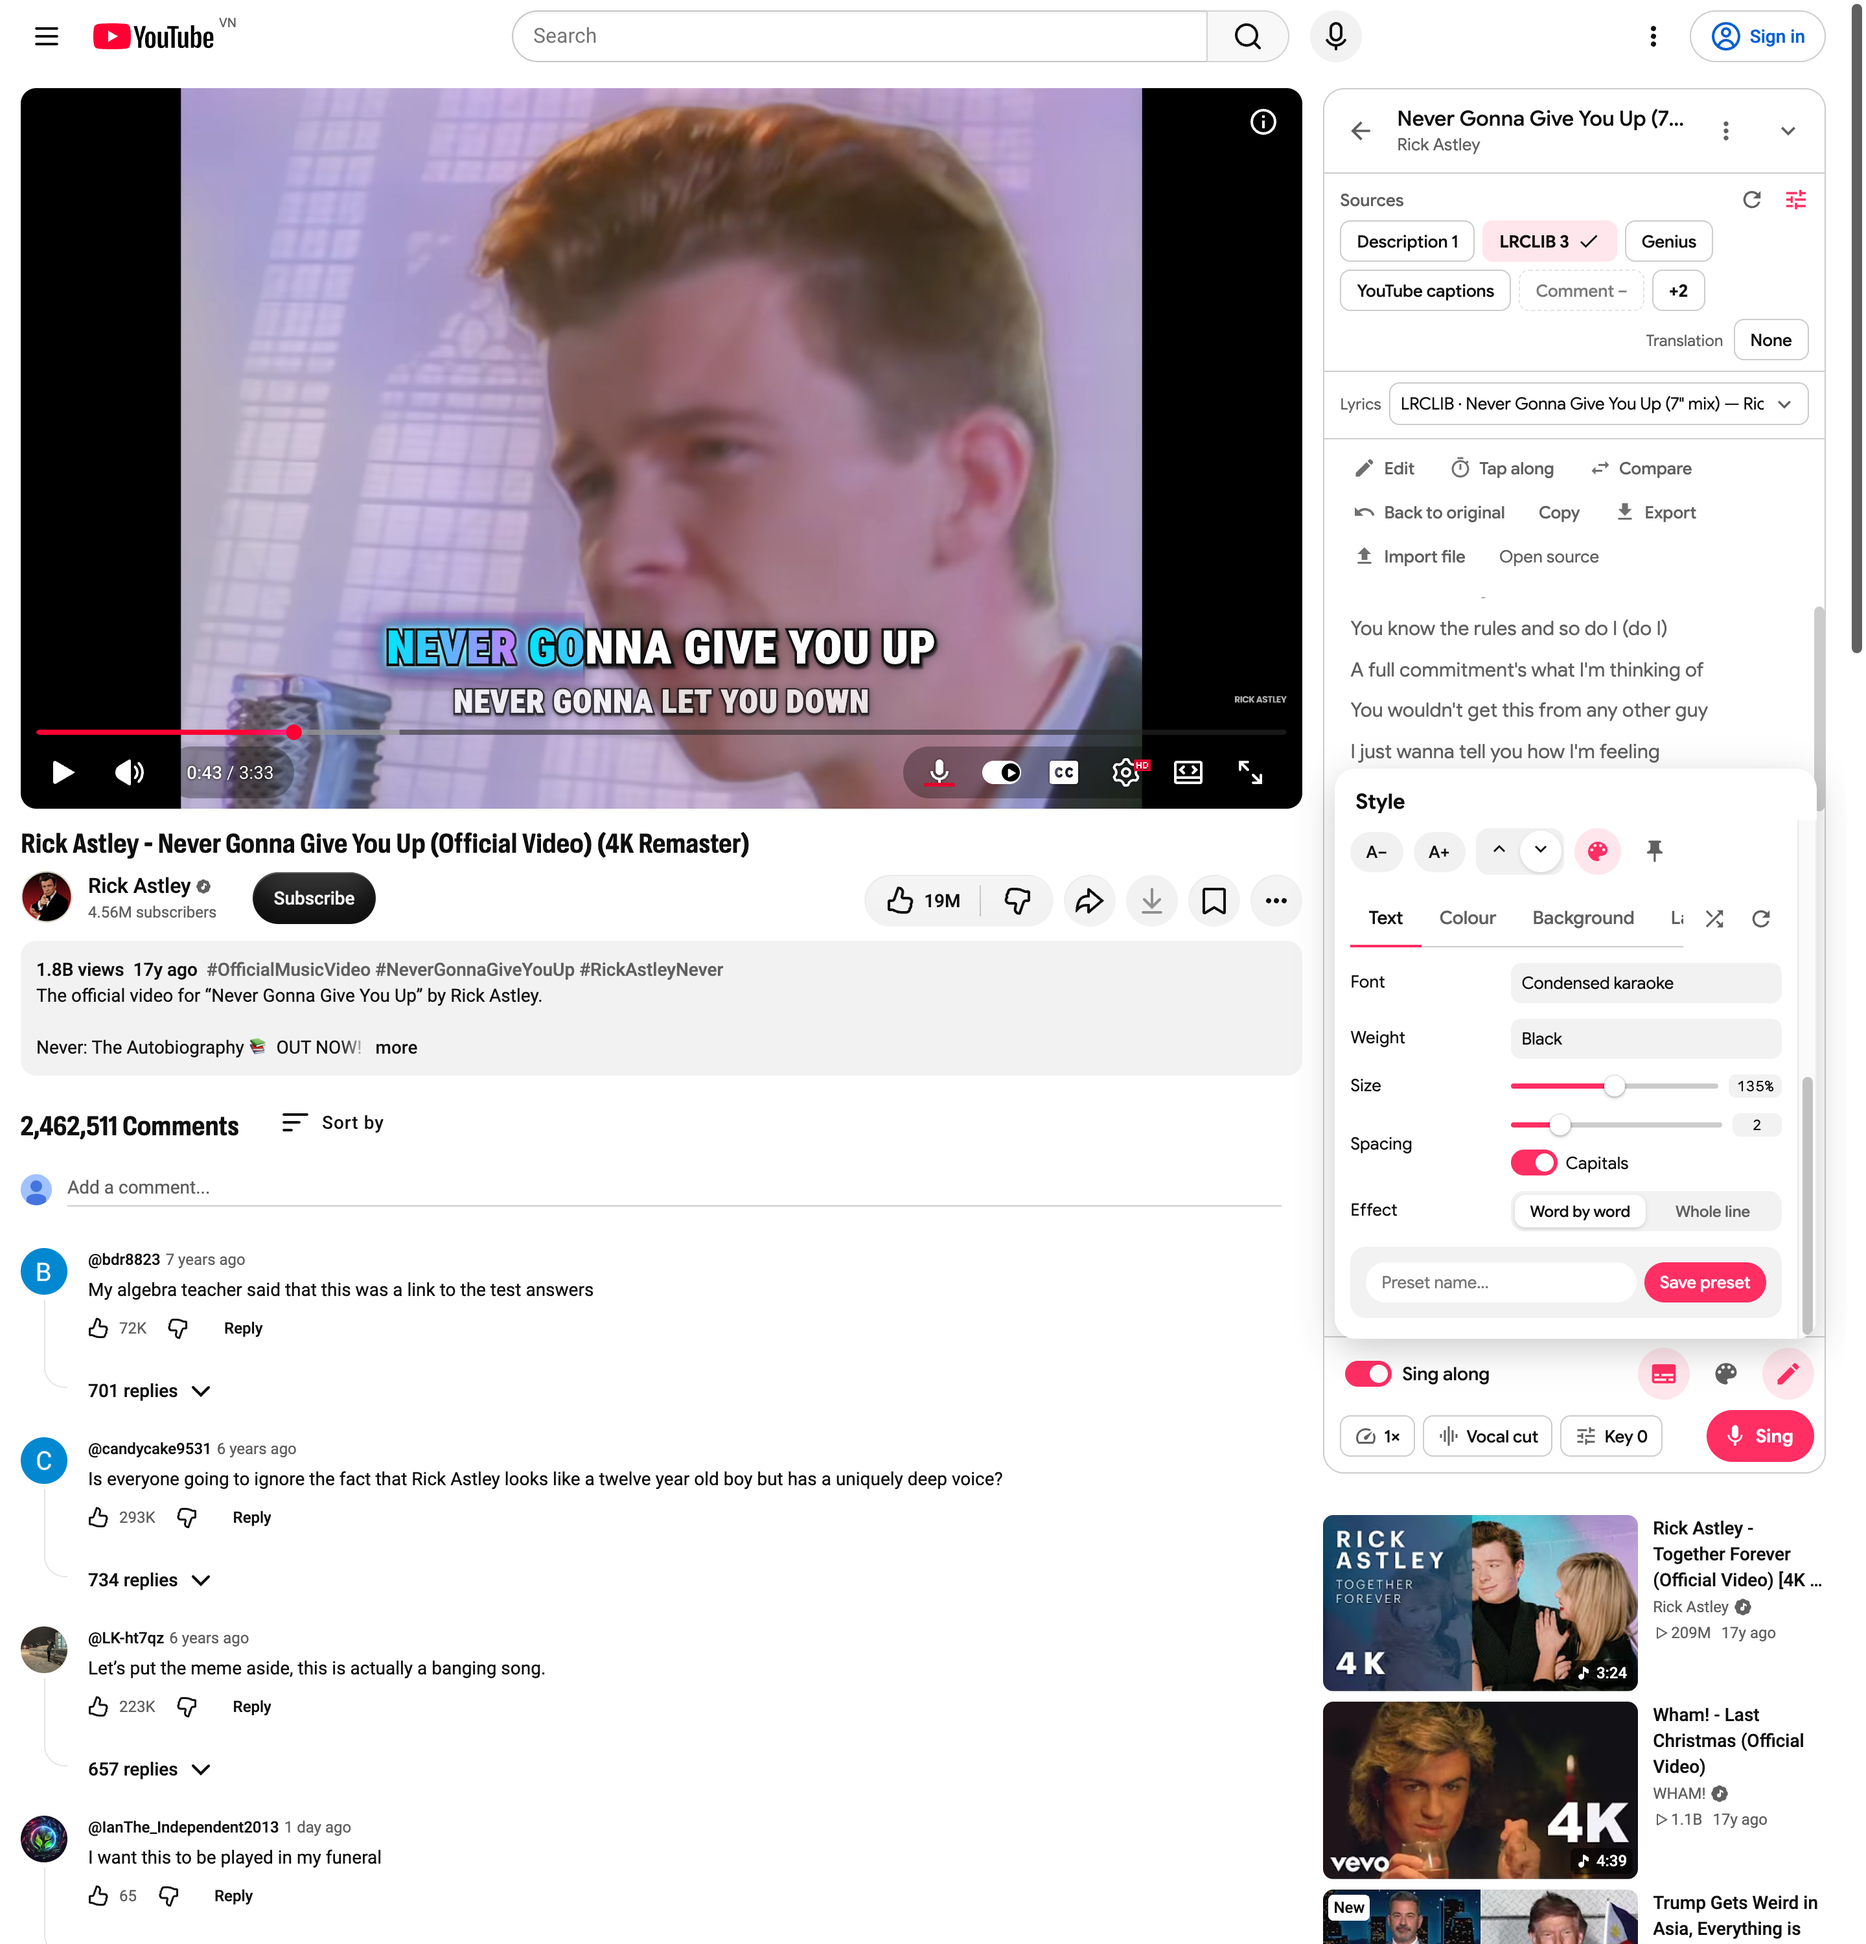
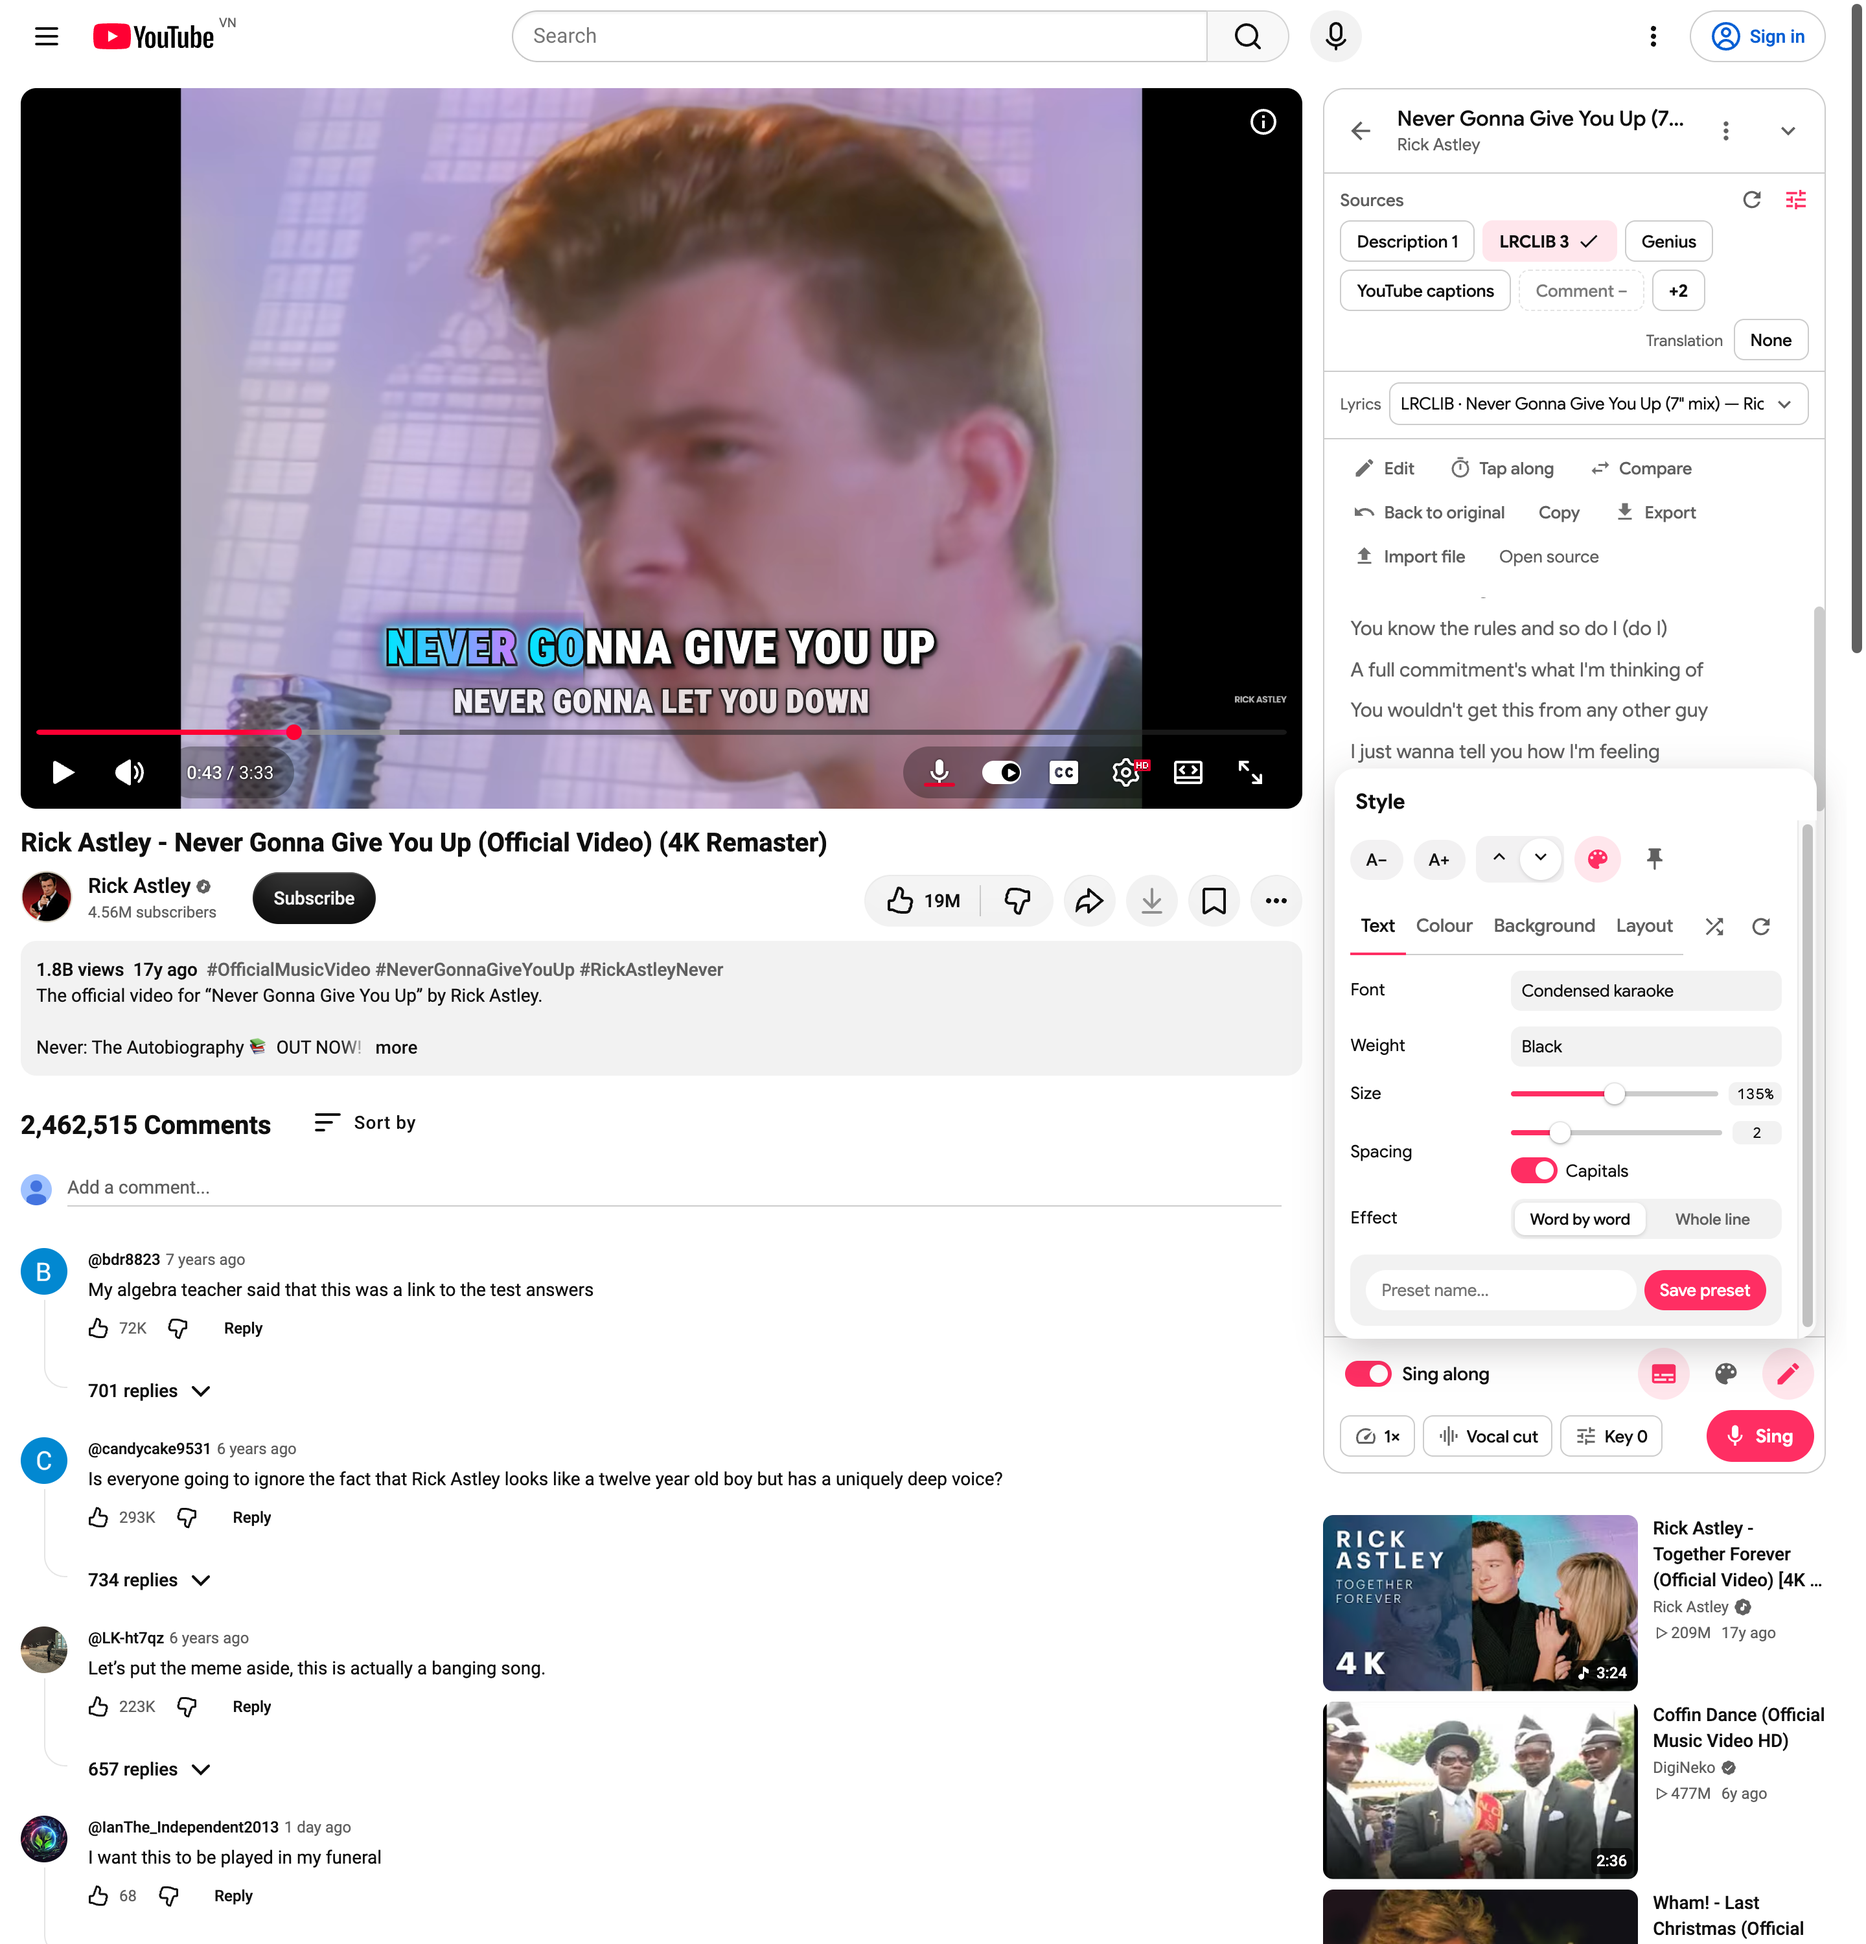
Store 0.29.0 images rechecked: the marquee's panel redrawn in the 0.29 look (Karaoke button, 文A line, Hát cùng bar), the studio shot without the preset gallery; the 🎨 studio tabs share their row so English "Layout" isn't hidden under 🎲 ↺

diff --git a/store/design-kit.html b/store/design-kit.html
@@ -110,10 +110,10 @@
   };
   const ART = {
     en: { sing: ['Sing along', ' on YouTube'], pills: ['Karaoke on video', '9 subtitle styles', 'Key & vocal cut', 'Translate lyrics'],
-      l1: 'Sing your heart out', l2: 'Lyrics light up as you sing', tabs: ['Sing', 'Edit', 'Karaoke'],
+      l1: 'Sing your heart out', l2: 'Lyrics light up as you sing', tr: 'Hát hết mình nào', dock: ['Sing along', '1×', 'Vocal cut', 'Key +2', 'Sing'],
       lines: ['Turn the lights down low', 'Sing your heart out', 'Lyrics light up as you sing', 'Every word right on time'] },
     vi: { sing: ['Hát karaoke', ' trên YouTube'], pills: ['Karaoke trên video', '9 kiểu chữ', 'Tông & lọc giọng', 'Dịch lời'],
-      l1: 'Hát hết mình nào', l2: 'Lời sáng lên theo nhịp hát', tabs: ['Hát', 'Chỉnh lời', 'Karaoke'],
+      l1: 'Hát hết mình nào', l2: 'Lời sáng lên theo nhịp hát', tr: 'Sing your heart out', dock: ['Hát cùng', '1×', 'Lọc giọng', 'Tông +2', 'Hát'],
       lines: ['Đèn sân khấu đã lên', 'Hát hết mình nào', 'Lời sáng lên theo nhịp hát', 'Từng chữ đúng nhịp'] },
   };
   const fill = (s, ...a) => s.replace(/\{(\d)\}/g, (_, i) => a[i]);
@@ -247,7 +247,7 @@
       const cx = 20 + i * 48 + (i % 2) * 10, cy = 392 - (i % 3) * 8;
       return `<circle cx="${cx}" cy="${cy}" r="${17 + (i % 3) * 2}"/><rect x="${cx - 26}" y="${cy + 12}" width="52" height="80" rx="24"/>`;
     }).join('');
-    const line = (fillc, extra = '') => `<text x="${x1}" y="196" font-family="${FONT}" font-size="${s1}" font-weight="900" fill="${fillc}" stroke="#000" stroke-width="${s1 * 0.14}" stroke-linejoin="round" paint-order="stroke" ${extra}>${esc(l1)}</text>`;
+    const line = (fillc, extra = '') => `<text x="${x1}" y="178" font-family="${FONT}" font-size="${s1}" font-weight="900" fill="${fillc}" stroke="#000" stroke-width="${s1 * 0.14}" stroke-linejoin="round" paint-order="stroke" ${extra}>${esc(l1)}</text>`;
     return `<g transform="translate(740 58) rotate(3 300 225)">
       <rect x="-6" y="-6" width="612" height="462" rx="14" fill="#fff" filter="url(#${p}drop)"/>
       <g clip-path="url(#${p}screen)">
@@ -256,37 +256,54 @@
         <ellipse cx="300" cy="250" rx="260" ry="100" fill="url(#${p}spot)"/>
         <g fill="#0b0712">${crowd}</g>
         ${line('#fff')}
-        <clipPath id="${p}sung"><rect x="${x1 - 10}" y="136" width="${w1 * 0.55 + 10}" height="80"/></clipPath>
+        <clipPath id="${p}sung"><rect x="${x1 - 10}" y="118" width="${w1 * 0.55 + 10}" height="80"/></clipPath>
         <g clip-path="url(#${p}sung)">${line('#ffe600')}</g>
-        <text x="${x2}" y="236" font-family="${FONT}" font-size="${s2}" font-weight="700" fill="#fff" stroke="#000" stroke-width="${s2 * 0.12}" paint-order="stroke">${esc(A.l2)}</text>
+        <text x="${x2}" y="216" font-family="${FONT}" font-size="${s2}" font-weight="700" fill="#fff" stroke="#000" stroke-width="${s2 * 0.12}" paint-order="stroke">${esc(A.l2)}</text>
         <rect x="22" y="420" width="556" height="4" rx="2" fill="#fff" fill-opacity=".35"/><rect x="22" y="420" width="250" height="4" rx="2" fill="#ff1f4b"/><circle cx="272" cy="422" r="7" fill="#ff1f4b"/>
       </g></g>`;
   }
-  // The lyrics panel, small, over the corner of the video.
+  // The lyrics panel, small, over the corner of the video: drawn like the
+  // panel since 0.29 (header with the Karaoke button, the line being sung with
+  // its 文A translation, the Hát cùng bar with speed, vocal cut, key and 🎙 Hát).
   function panel(p, A) {
-    const W = 270;
-    let tabs = '', tx = 14;
-    const tw = (W - 28 - 6) / A.tabs.length;
-    A.tabs.forEach((t, i) => {
-      if (i === 0) tabs += `<rect x="${tx + 3}" y="61" width="${tw - 2}" height="22" rx="6" fill="#fff"/>`;
-      tabs += `<text x="${tx + 3 + (tw - 2) / 2}" y="76.5" text-anchor="middle" font-family="${FONT}" font-size="11.5" font-weight="${i === 0 ? 800 : 600}" fill="${i === 0 ? '#1d1216' : '#7a6870'}">${esc(t)}</text>`;
-      tx += tw;
-    });
-    const lines = A.lines.map((l, i) => {
-      const y = 112 + i * 26;
-      return (i === 1 ? `<rect x="10" y="${y - 17}" width="${W - 20}" height="24" rx="6" fill="#ffe3ea"/>` : '') +
-        `<text x="18" y="${y}" font-family="${FONT}" font-size="13" font-weight="${i === 1 ? 800 : 500}" fill="${i === 1 ? '#1d1216' : '#6d5a62'}">${esc(l)}</text>`;
-    }).join('');
-    return `<g transform="translate(1100 322) rotate(4 ${W / 2} 105)">
-      <rect x="-5" y="-5" width="${W + 10}" height="220" rx="16" fill="#fff" filter="url(#${p}drop)"/>
-      <svg x="12" y="12" width="32" height="32" viewBox="0 0 1000 1000">${icon(p + 'pi', 220)}</svg>
-      <text x="52" y="27" font-family="${FONT}" font-size="14" font-weight="800" fill="#1d1216">Better Karaoke</text>
-      <text x="52" y="42" font-family="${FONT}" font-size="11" font-weight="500" fill="#7a6870">YouTube</text>
-      <rect x="${W - 104}" y="14" width="92" height="26" rx="13" fill="#f72a52"/>
-      <text x="${W - 95}" y="31.5" font-family="${FONT}" font-size="12" font-weight="800" fill="#fff">Karaoke</text>
-      <rect x="${W - 46}" y="19" width="28" height="16" rx="8" fill="#fff" fill-opacity=".45"/><circle cx="${W - 26}" cy="27" r="6" fill="#fff"/>
-      <rect x="14" y="58" width="${W - 28}" height="28" rx="8" fill="#f3ecee"/>${tabs}
-      ${lines}
+    const W = 270, H = 226, ink = '#1d1216', mute = '#7a6870', pink = '#fde4ec', red = '#f72a52', line = '#ece4e7';
+    const T = (x, y, t, fs, fw, c, extra = '') => `<text x="${x}" y="${y}" font-family="${FONT}" font-size="${fs}" font-weight="${fw}" fill="${c}" ${extra}>${esc(t)}</text>`;
+    // header
+    const kw = measure('Karaoke', 12, 700) + 40;
+    const head = `<svg x="12" y="12" width="32" height="32" viewBox="0 0 1000 1000">${icon(p + 'pi', 220)}</svg>
+      ${T(52, 27, 'Better Karaoke', 14, 800, ink)}${T(52, 42, 'YouTube', 11, 500, mute)}
+      <rect x="${W - 34 - kw}" y="14.5" width="${kw}" height="25" rx="12.5" fill="#fff" stroke="#d6cdd1"/>
+      <circle cx="${W - 34 - kw + 15}" cy="26" r="4.2" fill="none" stroke="${ink}" stroke-width="1.6"/><path d="M${W - 34 - kw + 18} ${29} l3.2 3.2" stroke="${ink}" stroke-width="1.6" stroke-linecap="round"/>
+      ${T(W - 34 - kw + 26, 31, 'Karaoke', 12, 700, ink)}
+      <g fill="${mute}"><circle cx="${W - 18}" cy="21" r="1.7"/><circle cx="${W - 18}" cy="27" r="1.7"/><circle cx="${W - 18}" cy="33" r="1.7"/></g>
+      <rect x="0" y="52" width="${W}" height="1" fill="${line}"/>`;
+    // lyrics: the line before, the one being sung (with its translation), the next ones
+    const L = A.lines;
+    const lyr = `<rect x="10" y="61" width="${W - 20}" height="40" rx="7" fill="${pink}"/>
+      ${T(18, 78, L[1], 13, 800, '#d81b52')}${T(18, 93, A.tr, 10.5, 500, '#d81b52', 'fill-opacity=".8"')}
+      ${T(18, 119, L[2], 12.5, 500, '#6d5a62')}${T(18, 140, L[3], 12.5, 500, '#6d5a62')}
+      <rect x="0" y="152" width="${W}" height="1" fill="${line}"/>`;
+    // Hát cùng: a switch, then speed · vocal cut · key and the red 🎙 button
+    const [sa, sp, vc, key, mic] = A.dock;
+    let x = 14;
+    const chip = (t, on, ico) => {
+      const w = measure(t, 11, 600) + 18 + (ico ? 12 : 0);
+      const g = `<rect x="${x}" y="188" width="${w}" height="24" rx="6" fill="${on ? pink : '#fff'}" stroke="${on ? pink : '#d6cdd1'}"/>
+        ${ico ? `<path d="M${x + 8} 200 l2.6 2.6 l5 -5.4" fill="none" stroke="${ink}" stroke-width="1.6" stroke-linecap="round" stroke-linejoin="round"/>` : ''}
+        ${T(x + 9 + (ico ? 12 : 0), 204, t, 11, 600, ink)}`;
+      x += w + 5;
+      return g;
+    };
+    const mw = measure(mic, 12, 800) + 34;
+    const dock = `<rect x="14" y="163" width="26" height="15" rx="7.5" fill="${red}"/><circle cx="32.5" cy="170.5" r="5.2" fill="#fff"/>
+      ${T(47, 175, sa, 12, 600, ink)}
+      ${chip(sp, false)}${chip(vc, true, true)}${chip(key, true)}
+      <rect x="${W - 12 - mw}" y="185" width="${mw}" height="30" rx="15" fill="${red}"/>
+      <g transform="translate(${W - 12 - mw + 11} 192)" fill="none" stroke="#fff" stroke-width="1.6" stroke-linecap="round"><rect x="2.2" y="0" width="5.6" height="9.5" rx="2.8" fill="#fff"/><path d="M0 7 a5 5 0 0 0 10 0 M5 12 v3"/></g>
+      ${T(W - 12 - mw + 25, 204.5, mic, 12, 800, '#fff')}`;
+    return `<g transform="translate(1112 316) rotate(4 ${W / 2} ${H / 2})">
+      <rect x="-5" y="-5" width="${W + 10}" height="${H + 10}" rx="16" fill="#fff" filter="url(#${p}drop)"/>
+      ${head}${lyr}${dock}
     </g>`;
   }
 

diff --git a/src/content/panel-css.js b/src/content/panel-css.js
@@ -644,7 +644,7 @@ BYL.PANEL_CSS = `
   .studio .snav { display: flex; flex-direction: row; align-items: center; gap: 4px; padding: 0; border: 0 !important; }
   .studio .stabs { display: flex; flex: 1; min-width: 0; overflow-x: auto; scrollbar-width: none; box-shadow: inset 0 -1px 0 var(--outline-var); }
   .studio .stabs::-webkit-scrollbar { display: none; }
-  .studio .snav .sg { flex: none; height: 44px; padding: 0 14px; border: 0 !important; border-radius: 0; background: transparent; color: var(--fg2);
+  .studio .snav .sg { flex: 1 0 auto; height: 44px; padding: 0 8px; border: 0 !important; border-radius: 0; background: transparent; color: var(--fg2);
     font-size: 14px; font-weight: 500; border-bottom: 2px solid transparent !important; }
   .studio .snav .sg:hover { background: var(--chip); color: var(--fg); }
   .studio .snav .sg.on { background: transparent; color: var(--fg); border-bottom-color: var(--primary) !important; }
